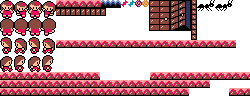
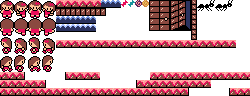
add lago 2 e lago 3

diff --git a/CandyMaze.py b/CandyMaze.py
@@ -75,6 +75,15 @@ class Fase1:
         self.y_lago1 = 212
         self.largura_lago1 = 20   #posicão inicial e tamanho do primeiro lago
         self.altura_lago1 = 8
+        self.x_lago2 = 137
+        self.y_lago2 = 68
+        self.largura_lago2 = 40   #posicão inicial e tamanho do segundo lago
+        self.altura_lago2 = 8
+        self.x_lago3 = 46
+        self.y_lago3 = 116
+        self.largura_lago3 = 20   #posicão inicial e tamanho do terceiro lago
+        self.altura_lago3 = 8
+        
 
 
     def update_fase1(self):
@@ -157,21 +166,38 @@ class Fase1:
         else:
             self.win_counter = 0  # Reseta contador se sair da porta
             self.win = False
-    #-------------LAGO--------------
+    #-------------LAGO 1--------------
         self.x_lago1 += 0.5 #movimento do lago para a direita, e corte na largura de acordo com o movimento
-        if self.largura_lago1 > 0 and self.x_lago1 < 250:
+        if self.largura_lago1 > 0 and self.x_lago1 < 229:
             self.largura_lago1 -= 0.5
         else:                #quando chega no limite imposto ele volta para a posicão inicial para reiniciar o movimento
             self.largura_lago1 = 20
             self.x_lago1 = 209
+    
+    #----------LAGO2--------------
+        self.x_lago2 += 0.5 #movimento do lago para a direita, e corte na largura de acordo com o movimento
+        if self.largura_lago2 > 0 and self.x_lago2 < 177:
+            self.largura_lago2 -= 0.5
+        else:                #quando chega no limite imposto ele volta para a posicão inicial para reiniciar o movimento
+            self.largura_lago2 = 40
+            self.x_lago2 = 137
+
+    #----------LAGO3--------------
+        self.x_lago3 += 0.5 #movimento do lago para a direita, e corte na largura de acordo com o movimento
+        if self.largura_lago3 > 0 and self.x_lago3 < 65:
+            self.largura_lago3 -= 0.5
+        else:                #quando chega no limite imposto ele volta para a posicão inicial para reiniciar o movimento
+            self.largura_lago3 = 20
+            self.x_lago3 = 45
+
 
     def paredes(self):
         
             self.parede1 = pyxel.blt(122, 172, 1, 191, 0, 6, 40)  # parede vertical
             self.parede2 = pyxel.blt(35, 164, 1, 56, 40, 180, 8)  # parede horizontal 1
-            self.parede3 = pyxel.blt(0, 116, 1, 0, 72, 100, 8)  # parede horizontal 2
+            self.parede3 = pyxel.blt(0, 116, 1, 0, 72, 100, 8,7)  # parede horizontal 2
             self.parede4 = pyxel.blt(150, 116, 1, 150, 72, 100, 8)  # parede horizontal 3
-            self.parede5 = pyxel.blt(40, 68, 1, 0, 80, 210, 8)   # parede horizontal 4
+            self.parede5 = pyxel.blt(40, 68, 1, 0, 80, 210, 8,7)   # parede horizontal 4
             
 
     def vidas(self):
@@ -182,9 +208,19 @@ class Fase1:
         pyxel.blt(0, 0, 2, 0, 0, 250, 220)
         pyxel.mouse(False) # mouse desativado
         self.porta_final = pyxel.blt(220, 37, 1, 149, 0, 21, 31) # porta final
+        #----LAGO1---------
         pyxel.blt(self.x_lago1, self.y_lago1, 1, 101, 0, self.largura_lago1, self.altura_lago1,7) #primeira imagem do looping do lago
         pyxel.blt(self.x_lago1 - 20, self.y_lago1, 1, 101, 0, 20, self.altura_lago1,7)  #segunda imagem do looping do lago
         pyxel.blt(self.x_lago1 - 40, self.y_lago1, 1, 101, 0, 20, self.altura_lago1,7)   #terceira imagem do looping do lago
+       #-----LAGO2--------
+        pyxel.blt(self.x_lago2, self.y_lago2, 1, 56, 16, self.largura_lago2, self.altura_lago2,7) 
+        pyxel.blt(self.x_lago2 - 40, self.y_lago2, 1, 56, 16, 40, self.altura_lago2,7) 
+        pyxel.blt(self.x_lago2 - 80, self.y_lago2, 1, 56, 16, 40, self.altura_lago2,7) 
+        pyxel.blt(self.x_lago2 - 95, self.y_lago2, 1, 56, 16, 15, self.altura_lago2,7)   
+        #-----LAGO3--------
+        pyxel.blt(self.x_lago3, self.y_lago3, 1, 56, 24, self.largura_lago3, self.altura_lago3,7) #primeira imagem do looping do lago
+        pyxel.blt(self.x_lago3 - 20, self.y_lago3, 1, 56, 24, 20, self.altura_lago3,7)  #segunda imagem do looping do lago
+        pyxel.blt(self.x_lago3 - 40, self.y_lago3, 1, 56, 24, 20, self.altura_lago3,7) 
         self.personagem.desenhapersonagem()
         pyxel.text(5+0.5, 5+0.5, "FASE 1", self.colortext)
         pyxel.text(5, 5, "FASE 1", 0)
@@ -395,7 +431,7 @@ class Personagem:
 #----------------- CandyMazeGame ---------------------------------------------------------------------------#
 class CandyMazeGame:
     def __init__(self):
-        pyxel.init(250, 220, title="CandyMaze", fps=30, quit_key=pyxel.KEY_Q )
+        pyxel.init(250, 220, title="CandyMaze", fps=20, quit_key=pyxel.KEY_Q )
 
         self.fase1 = Fase1()
         self.start = True
